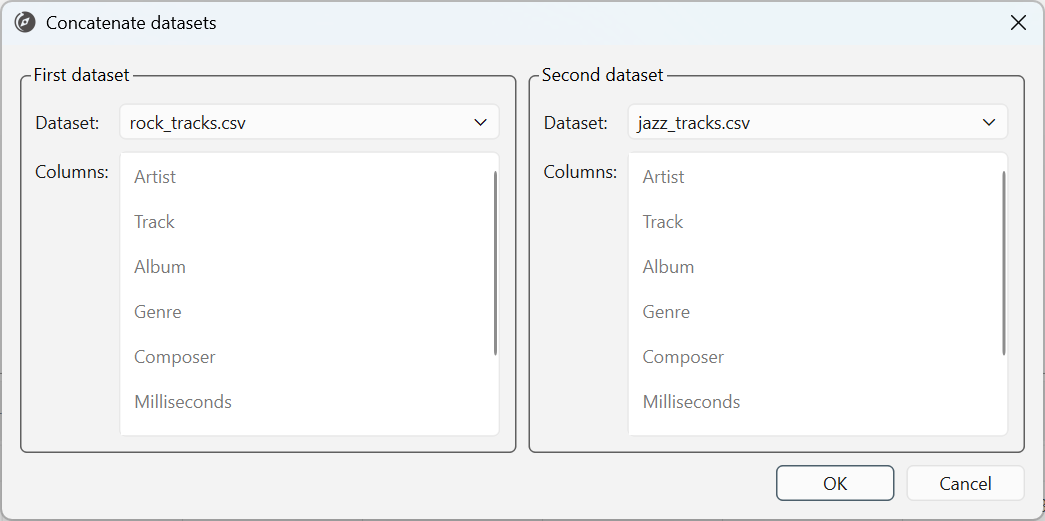
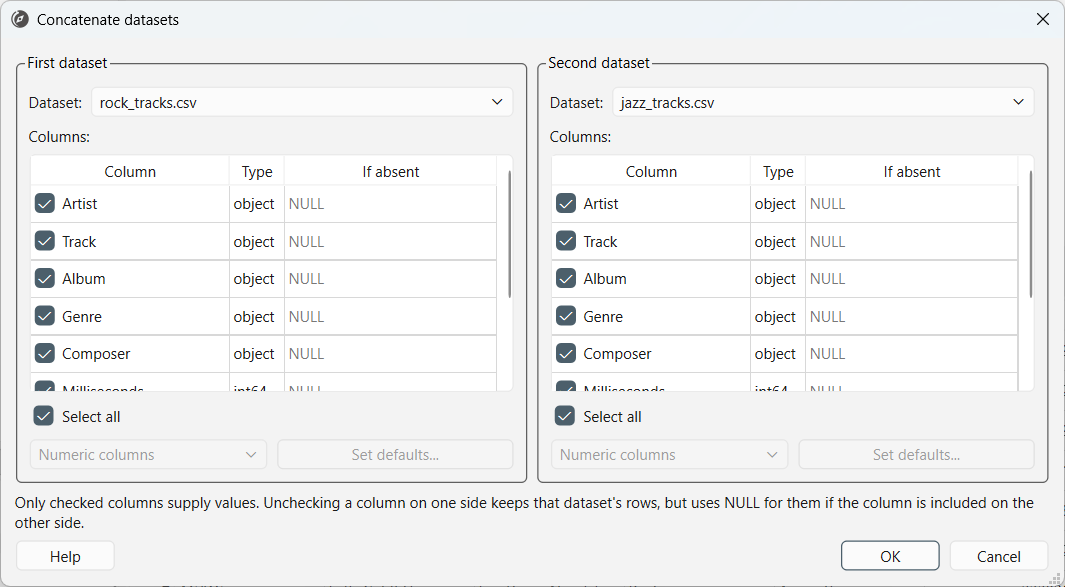
docs(concat): add updated dialog screenshot

diff --git a/docs/transform-data/concatenate.md b/docs/transform-data/concatenate.md
@@ -53,6 +53,9 @@ To append the jazz rows to the rock dataset:
 6. Select **OK** to create the concatenated result. At least one column must
    remain checked across the two panels.
 
+![Concatenate datasets dialog showing column inclusion checkboxes, types,
+If absent defaults, and controls below each column table](../assets/transform-data/concatenate.png)
+
 The result is a new tab named **Concatenated data**. The first dataset's rows
 come first, followed by the second dataset's rows:
 
